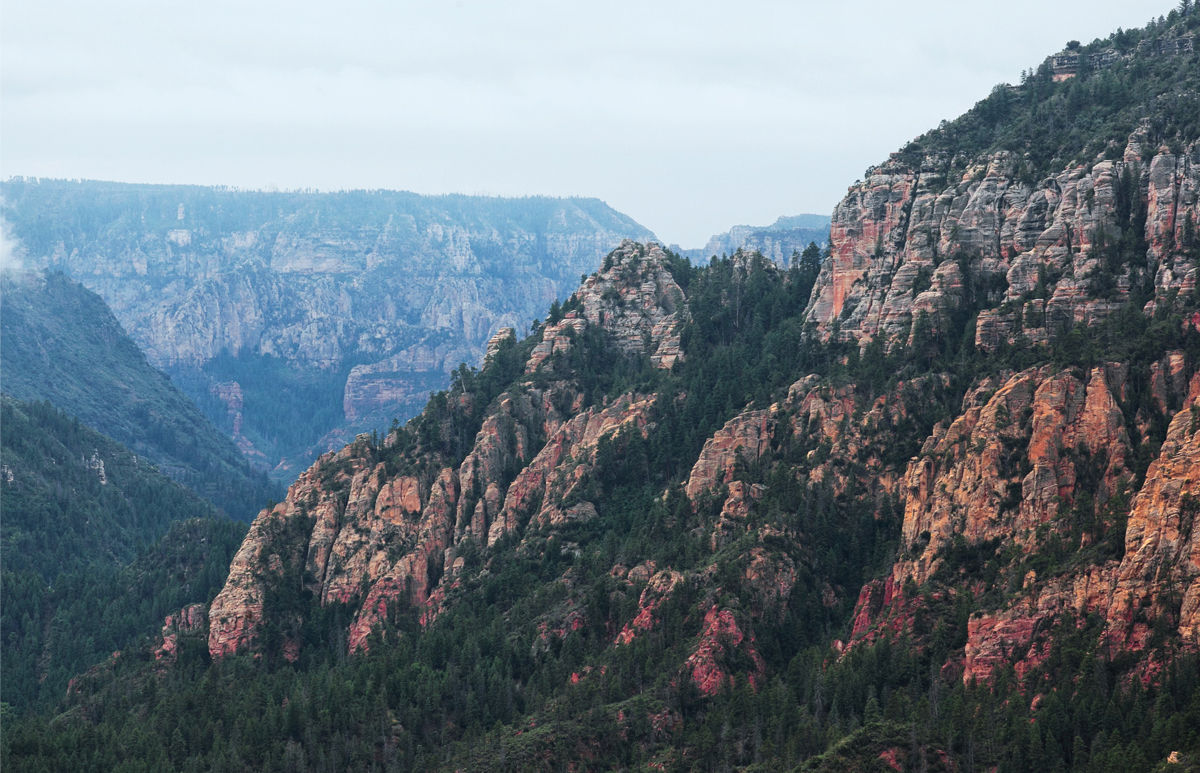
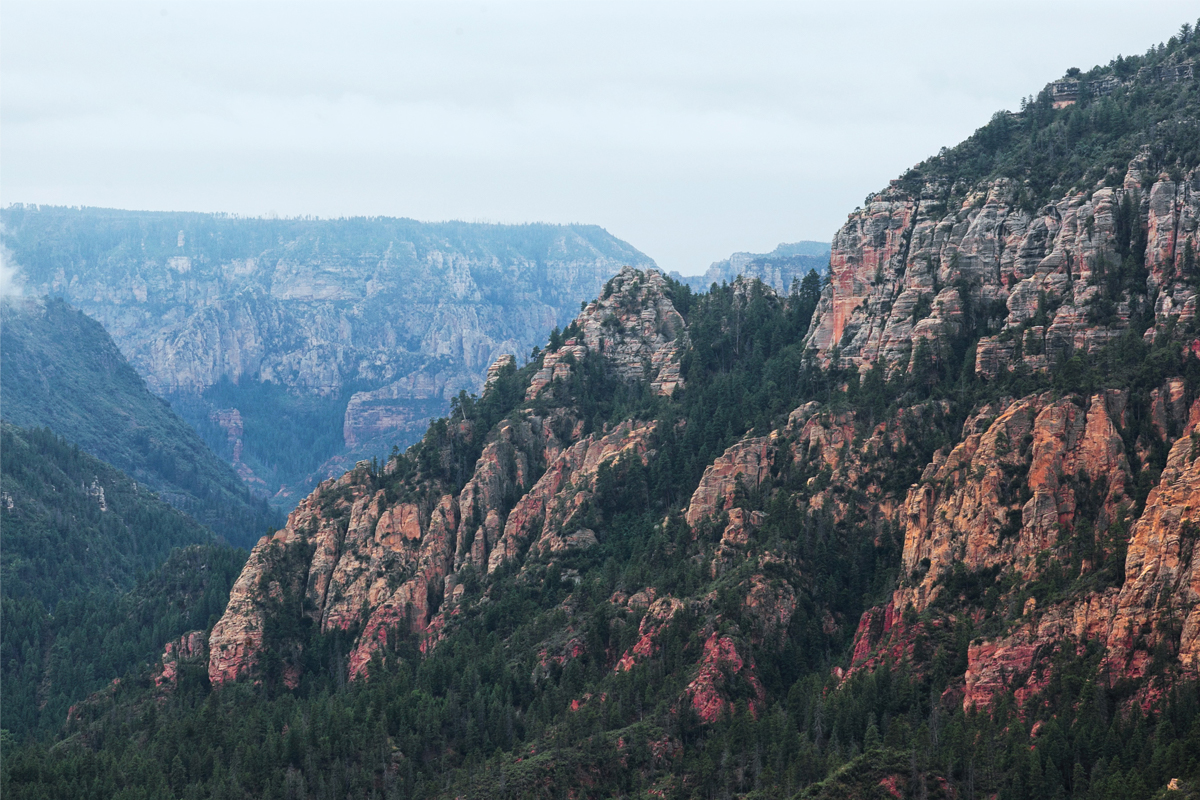
changes

diff --git a/catalog.html b/catalog.html
@@ -35,7 +35,7 @@
           <h1 class="visually-hidden">Поиск отелей в Седоне</h1>
           <form class="filters" action="catalog.html" method="get">
             <div class="filters__layout">
-              <div class="filters__filters">
+              <div class="filters__options">
                 <fieldset class="filters__fieldset">
                   <legend class="filters__legend">Инфраструктура:</legend>
                   <ul class="filters__list">
@@ -54,7 +54,7 @@
                   </ul>
                 </fieldset>
               </div>
-              <div class="filters">
+              <div class="filters__options">
                 <fieldset class="filters__fieldset">
                   <legend class="filters__legend">Тип жилья:</legend>
                   <ul class="filters__list">
@@ -75,7 +75,7 @@
               </div>
               <div class="filters__price">
                 <fieldset class="filters__price-fieldset">
-                  <legend class="filters__price-legend">Стоимость в сутки p.</legend>
+                  <legend class="filters__price-legend">Стоимость в сутки (p):</legend>
                   <div class="filters__price-inputs">
                     <label class="filters__price-label  search__price-label--min">
                       От <input class="filters__price-input  search__price-input--min" type="text" name="min-price-input" value="0">
@@ -102,7 +102,7 @@
           <section class="hotels__filters">
             <div class="hotels__filters-title">
               <h3 class="visually-hidden">Сортировка результатов</h3>
-              <div class="hotels__filters-result">Найдено: <span class="hotels__filters-result-count" id="hotels-count">3</span></div>
+              <div class="hotels__filters-result-title">Найдено: <span class="hotels__filters-result-count" id="hotels-count">3</span></div>
             </div>
             <div class="hotels__sort">
               <ul class="hotels__sort-list">
@@ -139,15 +139,22 @@
               </div>
               <div class="hotels__item-desc">
                 <a  class="hotels__item-name" href="#">Amara Resort &amp; Spa</a>
-                <span class="hotels__item-stars">4*</span>
                 <div class="hotels__item-info">
                   <div class="hotels__item-type">Гостиница</div>
                   <div class="hotels__item-price">от 4000 p.</div>
+                </div>
+                <div class="hotels__item-links">
                   <a class="hotels__more-info  btn" href="#">Подробнее</a>
                   <a class="hotels__item-book  btn  btn--action" href="#">Забронировать</a>
                 </div>
               </div>
               <div class="hotels__item-rating">
+                <span class="hotels__item-stars" aria-label="4*">
+                  <span class="star">*</span>
+                  <span class="star">*</span>
+                  <span class="star">*</span>
+                  <span class="star">*</span>
+                </span>
                 <span class="rating">Рейтинг: 8,5</span>
               </div>
             </li>
@@ -157,15 +164,21 @@
               </div>
               <div class="hotels__item-desc">
                 <a  class="hotels__item-name" href="#">Desert Quail Inn</a>
-                <span class="hotels__item-stars">3*</span>
                 <div class="hotels__item-info">
                   <div class="hotels__item-type">Мотель</div>
                   <div class="hotels__item-price">от 3000 p.</div>
+                </div>
+                <div class="hotels__item-links">
                   <a class="hotels__more-info  btn" href="#">Подробнее</a>
                   <a class="hotels__item-book  btn  btn--action" href="#">Забронировать</a>
                 </div>
               </div>
               <div class="hotels__item-rating">
+                <span class="hotels__item-stars" aria-label="3*">
+                  <span class="star">*</span>
+                  <span class="star">*</span>
+                  <span class="star">*</span>
+                </span>
                 <span class="rating">Рейтинг: 8,9</span>
               </div>
             </li>
@@ -175,15 +188,20 @@
               </div>
               <div class="hotels__item-desc">
                 <a  class="hotels__item-name" href="#">Villas at Poco Diablo</a>
-                <span class="hotels__item-stars">4*</span>
                 <div class="hotels__item-info">
                   <div class="hotels__item-type">Апартаменты</div>
                   <div class="hotels__item-price">от 2000 p.</div>
+                </div>
+                <div class="hotels__item-links">
                   <a class="hotels__more-info  btn" href="#">Подробнее</a>
                   <a class="hotels__item-book  btn  btn--action" href="#">Забронировать</a>
                 </div>
               </div>
               <div class="hotels__item-rating">
+                <span class="hotels__item-stars" aria-label="2*">
+                  <span class="star">*</span>
+                  <span class="star">*</span>
+                </span>
                 <span class="rating">Рейтинг: 9,2</span>
               </div>
             </li>

diff --git a/css/style.css b/css/style.css
@@ -116,7 +116,8 @@ img {
   min-height: 508px;
   padding-top: 76px;
   padding-bottom: 80px;
-  background: #deebf4 url(../img/showcase-bg.jpg) no-repeat center -56px;
+  background: #deebf4 url(../img/showcase-bg.jpg) no-repeat center -83px;
+  background-size: 100% auto;
 }
 
 .showcase::after {
@@ -343,7 +344,7 @@ img {
 .btn {
   display: inline-block;
   vertical-align: top;
-  padding: 3px 16px;
+  padding: 3px 17px;
   border: none;
   font-family: inherit;
   font-size: inherit;
@@ -712,15 +713,56 @@ img {
 }
 
 .hotels-search {
-  background: url(../img/form-bg.jpg) no-repeat top center;
+  background: #83accb url(../img/form-bg.jpg) no-repeat top center;
   background-size: 100% auto;
-  padding: 27px 6% 31px;
+  padding: 27px 0 31px;
   min-height: 217px;
   color: #fff;
 }
 
 .filters__layout {
   display: flex;
+}
+
+.filters__fieldset,
+.filters__price-fieldset {
+  border: 0;
+  padding: 0;
+  margin: 0;
+}
+
+.filters__options {
+  padding-left: 6%;
+}
+
+.filters__price {
+  padding-right: 6%;
+  margin-left: auto;
+}
+
+.filters__legend,
+.filters__price-legend {
+  font-size: 16px;
+  line-height: 21px;
+  font-weight: 700;
+}
+
+.filters__list {
+  padding: 0;
+  margin: 0;
+  list-style: none;
+}
+
+.filters__price-input {
+  font: inherit;
+  font-size: inherit;
+  line-height: inherit;
+  background-color: transparent;
+  padding: 0;
+  margin: 0;
+  border: 0;
+  color: #fff;
+  width: 35px;
 }
 
 .hotels__filters {
@@ -731,12 +773,17 @@ img {
   border-bottom: 1px solid #e5e5e5;
 }
 
-.hotels__filters-result {
+.hotels__filters-result-title {
   font-size: 21px;
   line-height: 26px;
   font-weight: 700;
+  color: #000;
   min-width: 135px;
   margin-right: 30px;
+}
+
+.hotels__sort {
+  margin-top: 5px;
 }
 
 .hotels__sort-list {
@@ -776,6 +823,8 @@ img {
 }
 
 .hotels__stars-sort {
+  margin-top: 3px;
+  margin-right: 1px;
   margin-left: auto;
 }
 
@@ -794,7 +843,7 @@ img {
   display: block;
   width: 11px;
   height: 10px;
-  border-width: 10px 5px;
+  border-width: 10px 5.5px;
   border-color: #cacaca;
   border-style: solid;
   text-indent: -1000px;
@@ -836,11 +885,12 @@ img {
 .hotels__item {
   display: flex;
   flex-direction: row;
-  padding: 30px 6%;
+  padding: 25px 6% 30px;
   border-bottom: 1px solid #e5e5e5;
 }
 
 .hotels__item-photo {
+  padding-top: 5px;
   margin-right: 30px;
 }
 
@@ -850,19 +900,79 @@ img {
   height: 90px;
 }
 
+.hotels__item-info {
+  display: flex;
+  flex-direction: row;
+  margin-top: 7px;
+}
+
+.hotels__item-type {
+  min-width: 110px;
+  margin-right: 6px;
+}
+
+.hotels__item-links {
+  display: flex;
+  flex-direction: row;
+  margin-top: 14px;
+}
+
+.hotels__more-info {
+  margin-right: 6px;
+}
+
+.hotels__item-name {
+  font-size: 21px;
+  line-height: 26px;
+  font-weight: 700;
+  color: #000;
+  text-decoration: none;
+}
+
+.hotels__item-name:hover,
+.hotels__item-name:focus {
+  color: #81b3d2;
+}
+
+.hotels__item-name:active {
+  color: rgba(0, 0 ,0, 0.3);
+}
+
 .hotels__item-rating {
   display: flex;
   flex-direction: column;
-  justify-content: flex-end;
+  justify-content: space-between;
   margin-left: auto;
+}
+
+.hotels__item-stars {
+  display: flex;
+  flex-direction: row;
+  margin-top: 4px;
+  width: 114px;
+  justify-content: flex-end;
+}
+
+.star {
+  width: 18px;
+  height: 17px;
+  text-indent: -1000px;
+  overflow: hidden;
+  background: url(../img/star.svg) no-repeat top left;
+  background-size: 18px 17px;
+}
+
+.star + .star {
+  margin-left: 5px;
 }
 
 .rating {
   display: inline-block;
   vertical-align: top;
-  padding: 3px 14px;
+  padding: 3px 14px 3px;
   min-width: 110px;
   background-color: #f2f2f2;
+  align-self: flex-end;
 }
 
 .map {
